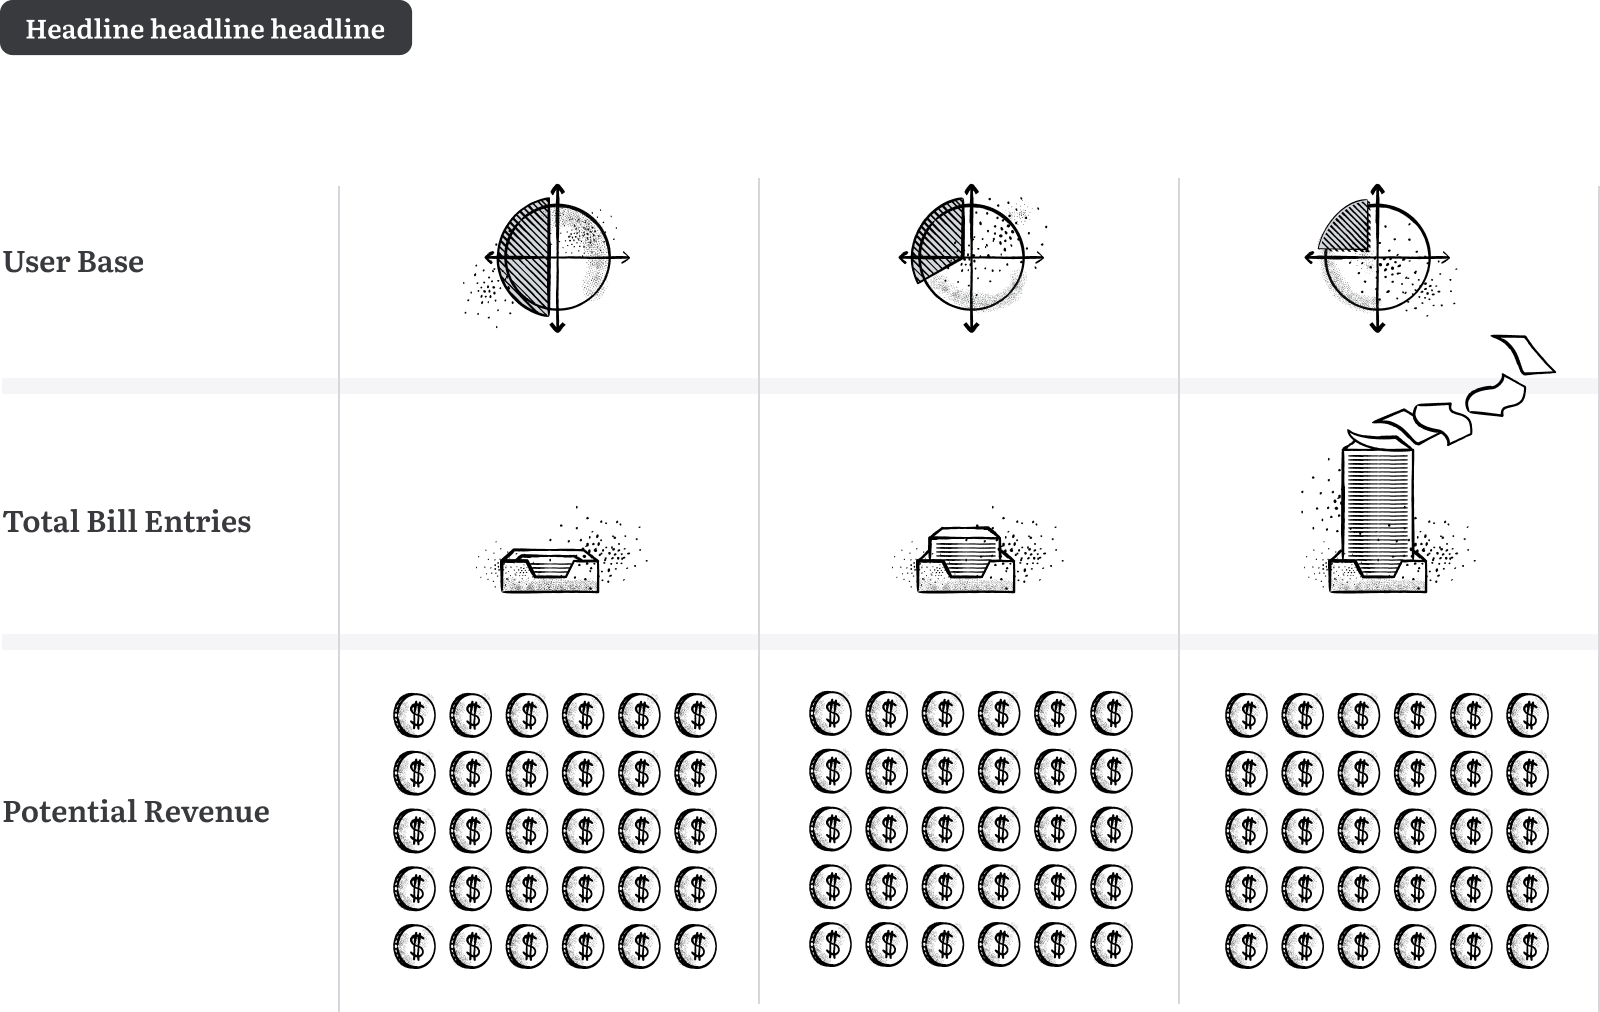
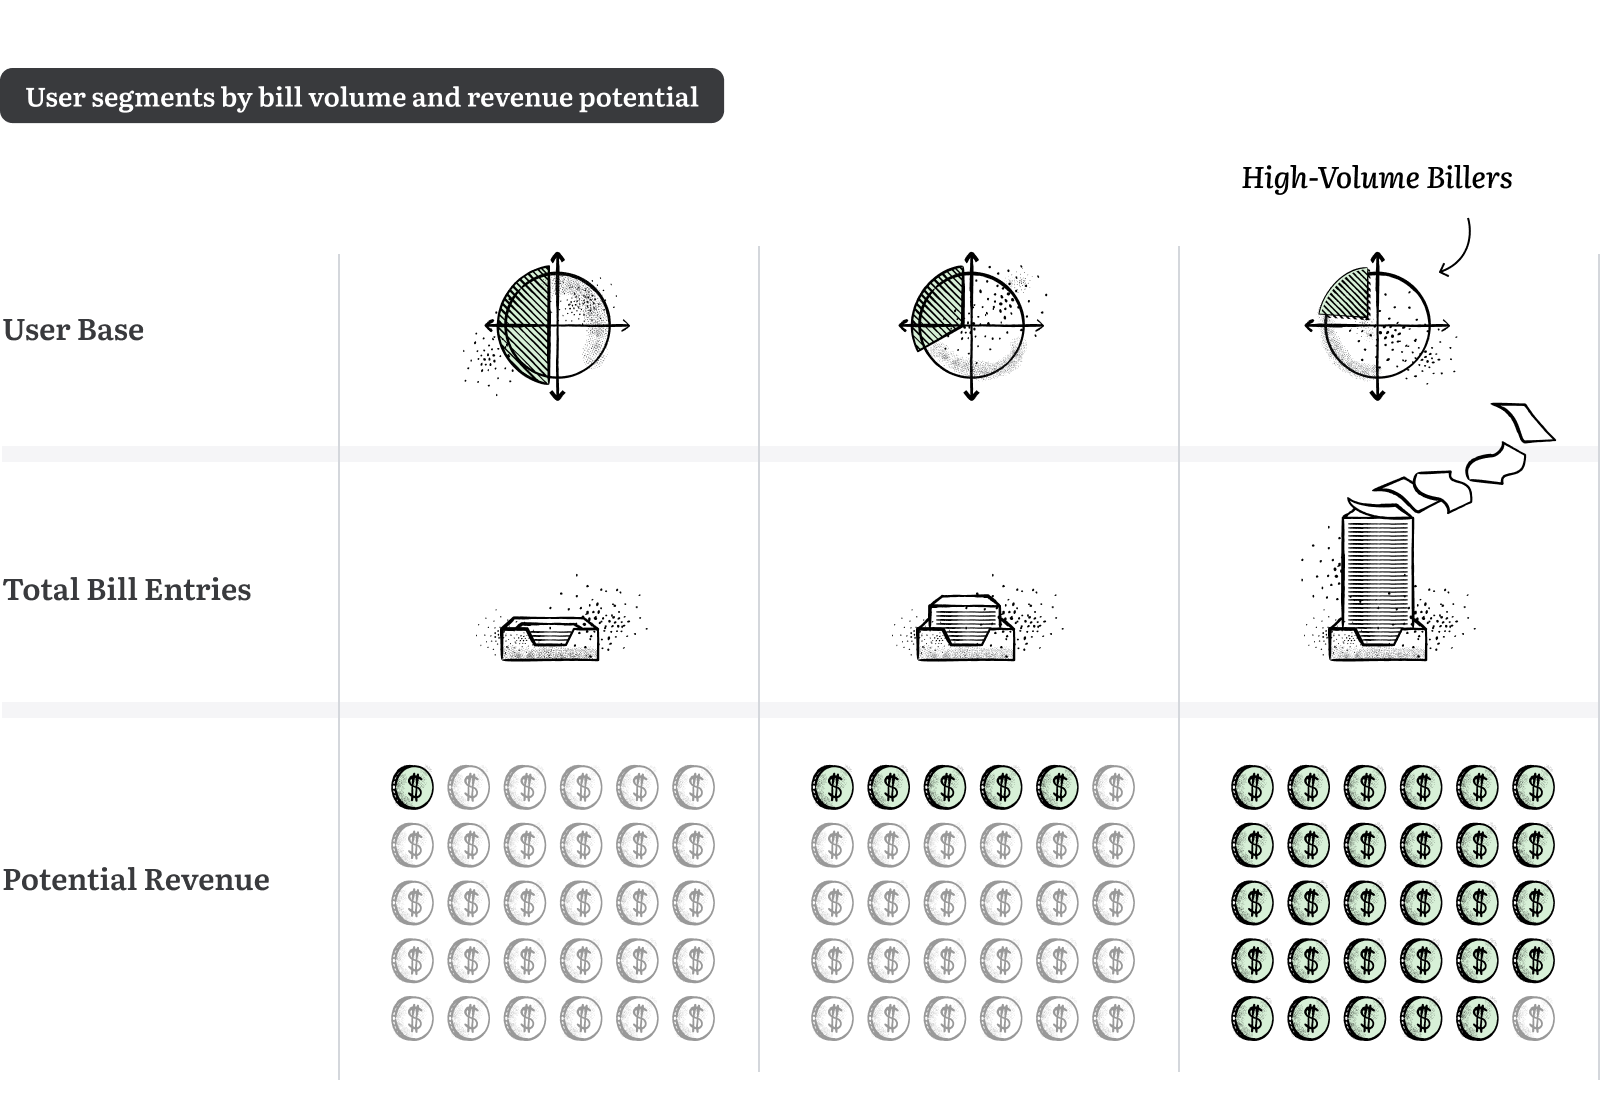
Bill Pay copy + cockpit spacing fixes
- Rename High-Value Billers → High-Volume Billers
- Subheaders: Business Background, Problem Definition; Stacked in one room → Research & Discovery
- Cockpit headline → "Empathy, Journey, / & Ecosystem Mapping" (index.njk + cockpit-widget.html)
- Cockpit widget: add margin-block var(--spacing-12), on top of the section slot's 64px gap (76px visible on desktop)
- Re-exported bill-pay-stat and team-members illustrations

diff --git a/cockpit-widget.html b/cockpit-widget.html
@@ -18,7 +18,7 @@
         <div class="cockpit-left-nav">
           <div class="cockpit-nav-panel">
             <div class="cockpit-headline-row">
-              <h2 class="cockpit-headline">AP workflow, Journey & Empathy Mapping</h2>
+              <h2 class="cockpit-headline">Empathy, Journey,<br>& Ecosystem Mapping</h2>
             </div>
             <div class="cockpit-content-row">
               <div class="cockpit-steps-column-wrapper">

diff --git a/css/widgets/bill-pay/cockpit/steps-rail.css b/css/widgets/bill-pay/cockpit/steps-rail.css
@@ -6,6 +6,7 @@
   background: var(--primitive-white);
   border-radius: var(--spacing-16);
   box-shadow: var(--shadow-soft);
+  margin-block: var(--spacing-12);
 }
 
 .cockpit-left-nav {
